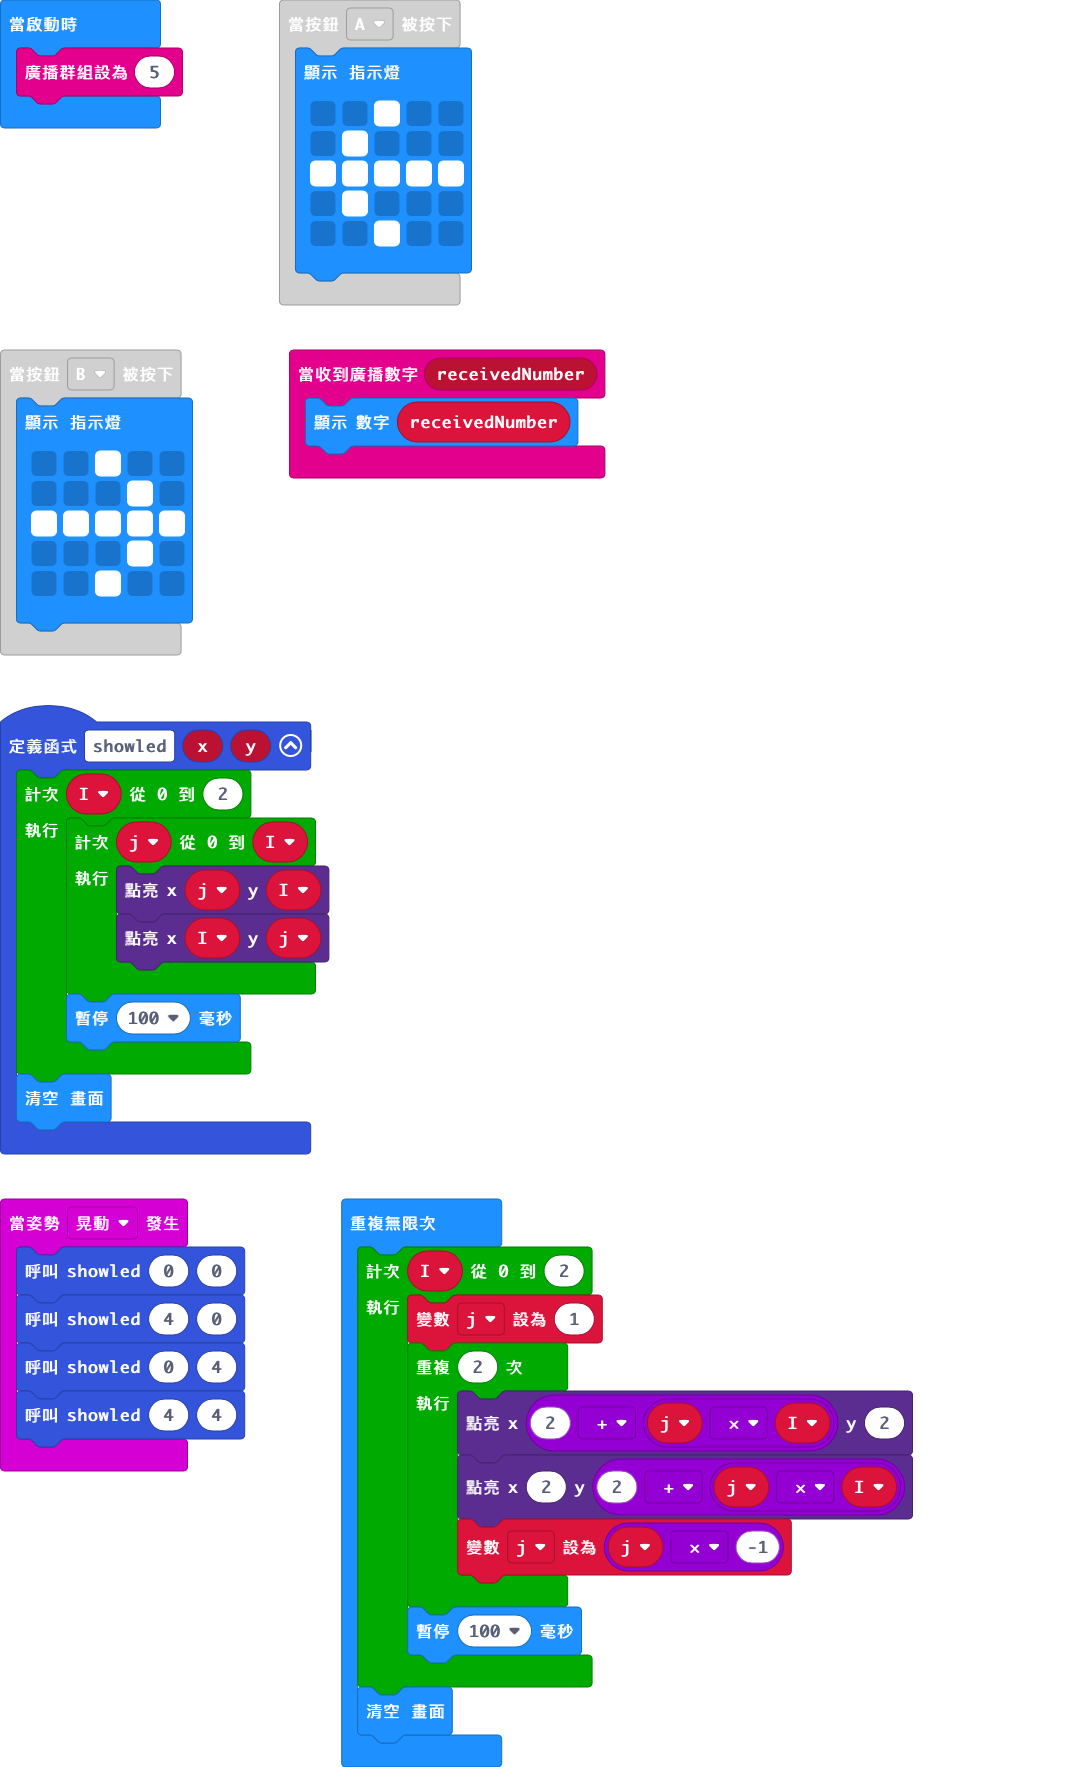
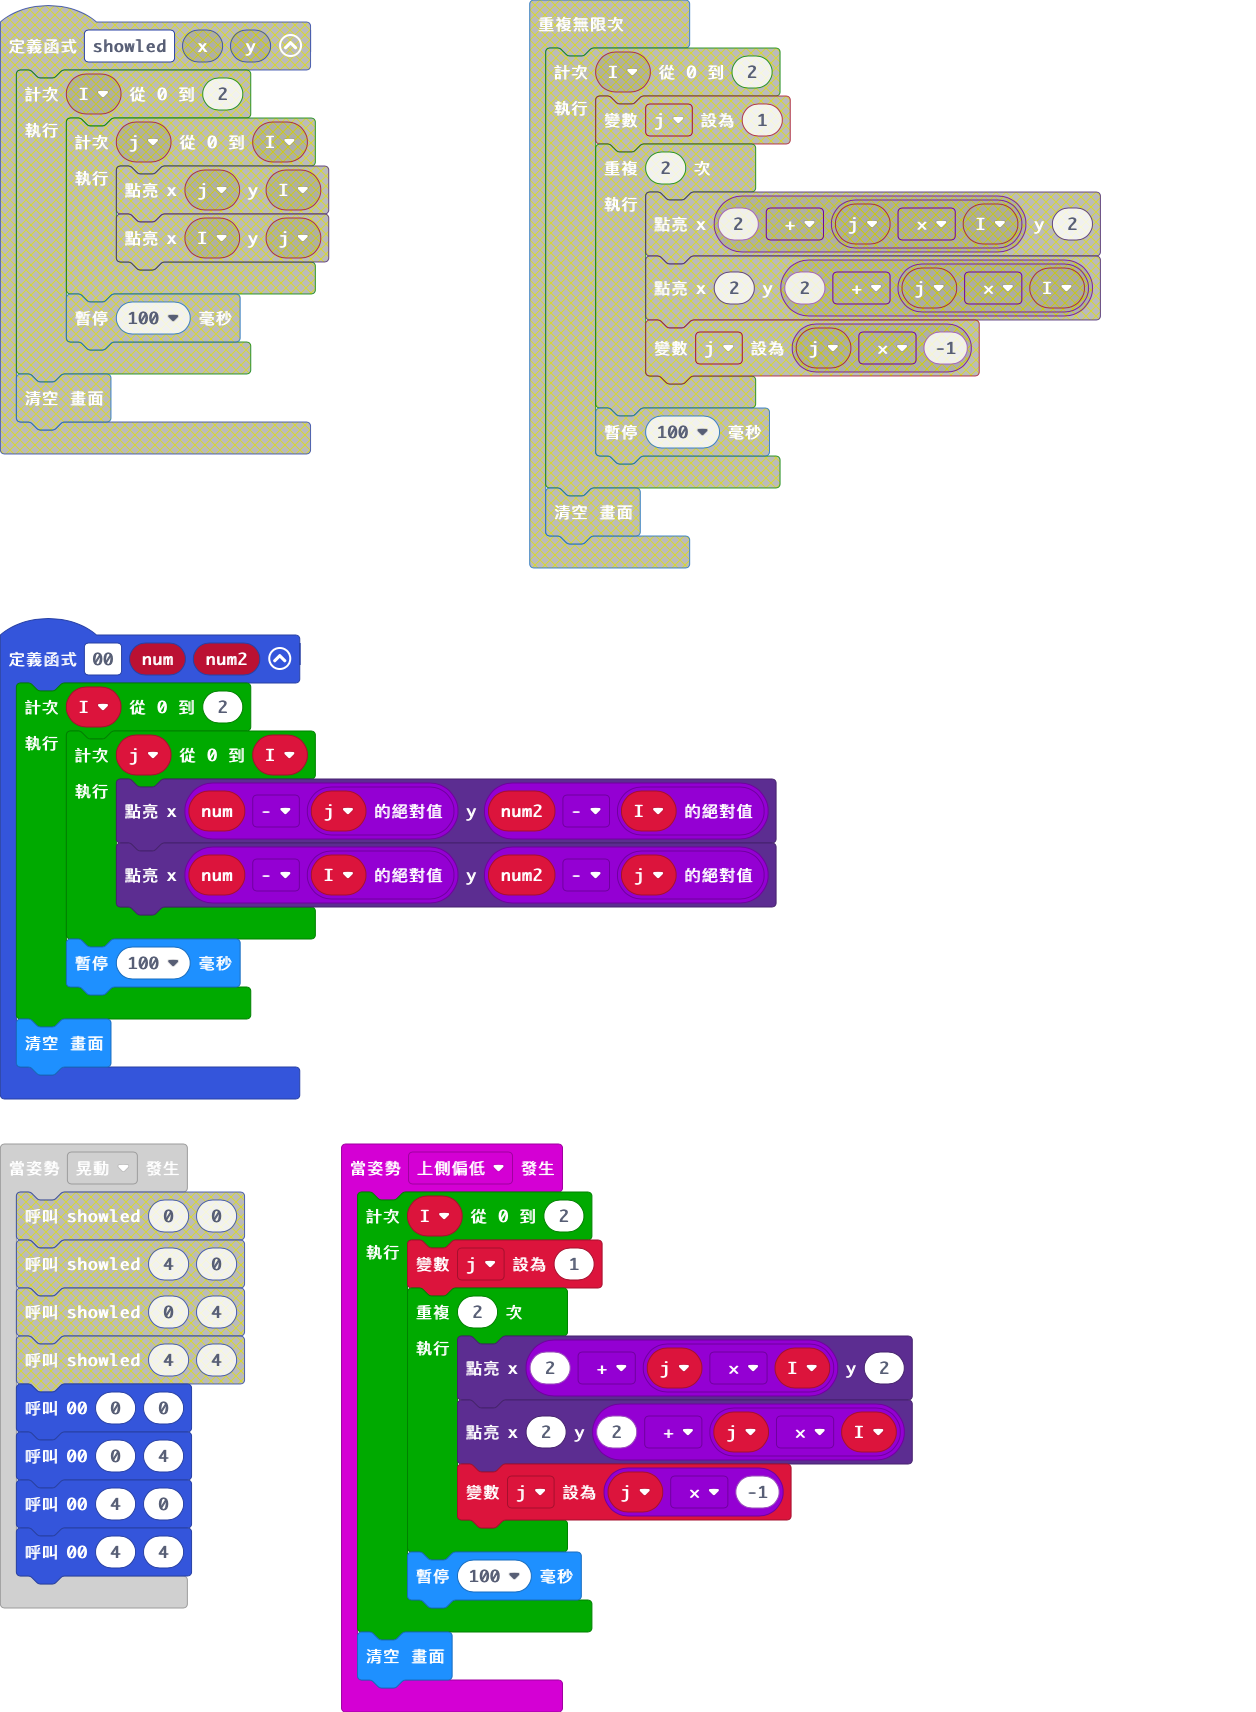
Update main.blocks, main.ts

diff --git a/main.ts b/main.ts
@@ -11,21 +11,33 @@ input.onButtonPressed(Button.A, function () {
         `)
 })
 input.onGesture(Gesture.Shake, function () {
-    showled(0, 0)
-    showled(4, 0)
-    showled(0, 4)
-    showled(4, 4)
+    _00(0, 0)
+    _00(0, 4)
+    _00(4, 0)
+    _00(4, 4)
 })
-function showled (x: number, y: number) {
+function _00 (num: number, num2: number) {
     for (let I = 0; I <= 2; I++) {
         for (let j = 0; j <= I; j++) {
-            led.plot(j, I)
-            led.plot(I, j)
+            led.plot(num - Math.abs(j), num2 - Math.abs(I))
+            led.plot(num - Math.abs(I), num2 - Math.abs(j))
         }
         basic.pause(100)
     }
     basic.clearScreen()
 }
+input.onGesture(Gesture.LogoDown, function () {
+    for (let I = 0; I <= 2; I++) {
+        j = 1
+        for (let index = 0; index < 2; index++) {
+            led.plot(2 + j * I, 2)
+            led.plot(2, 2 + j * I)
+            j = j * -1
+        }
+        basic.pause(100)
+    }
+    basic.clearScreen()
+})
 input.onButtonPressed(Button.AB, function () {
     basic.showLeds(`
         . . . . .
@@ -46,15 +58,3 @@ input.onButtonPressed(Button.B, function () {
 })
 let j = 0
 radio.setGroup(5)
-basic.forever(function () {
-    for (let I = 0; I <= 2; I++) {
-        j = 1
-        for (let index = 0; index < 2; index++) {
-            led.plot(2 + j * I, 2)
-            led.plot(2, 2 + j * I)
-            j = j * -1
-        }
-        basic.pause(100)
-    }
-    basic.clearScreen()
-})
